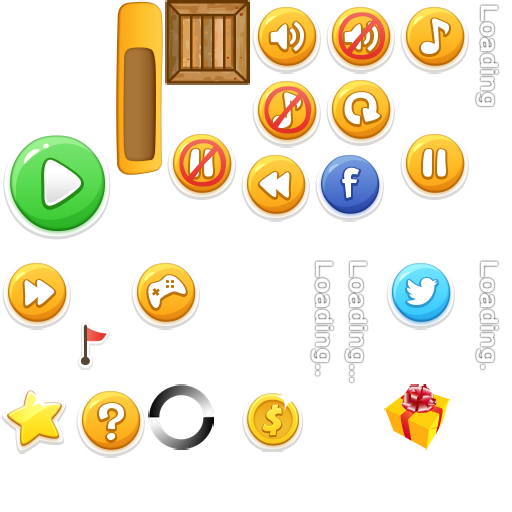
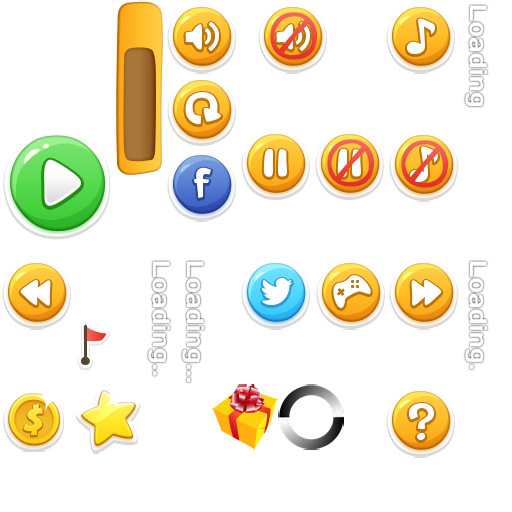
remove box

diff --git a/scripts/c3runtime.js b/scripts/c3runtime.js
@@ -4816,7 +4816,6 @@ self.C3_JsPropNameTable = [
 	{Water: 0},
 	{Coin: 0},
 	{Bomb: 0},
-	{Box: 0},
 	{Sky: 0},
 	{TiledBackground: 0},
 	{Moon: 0},
@@ -4878,7 +4877,6 @@ self.InstanceType = {
 	Water: class extends self.ITiledBackgroundInstance {},
 	Coin: class extends self.ISpriteInstance {},
 	Bomb: class extends self.ISpriteInstance {},
-	Box: class extends self.ISpriteInstance {},
 	Sky: class extends self.ISpriteInstance {},
 	TiledBackground: class extends self.ITiledBackgroundInstance {},
 	Moon: class extends self.ISpriteInstance {},
